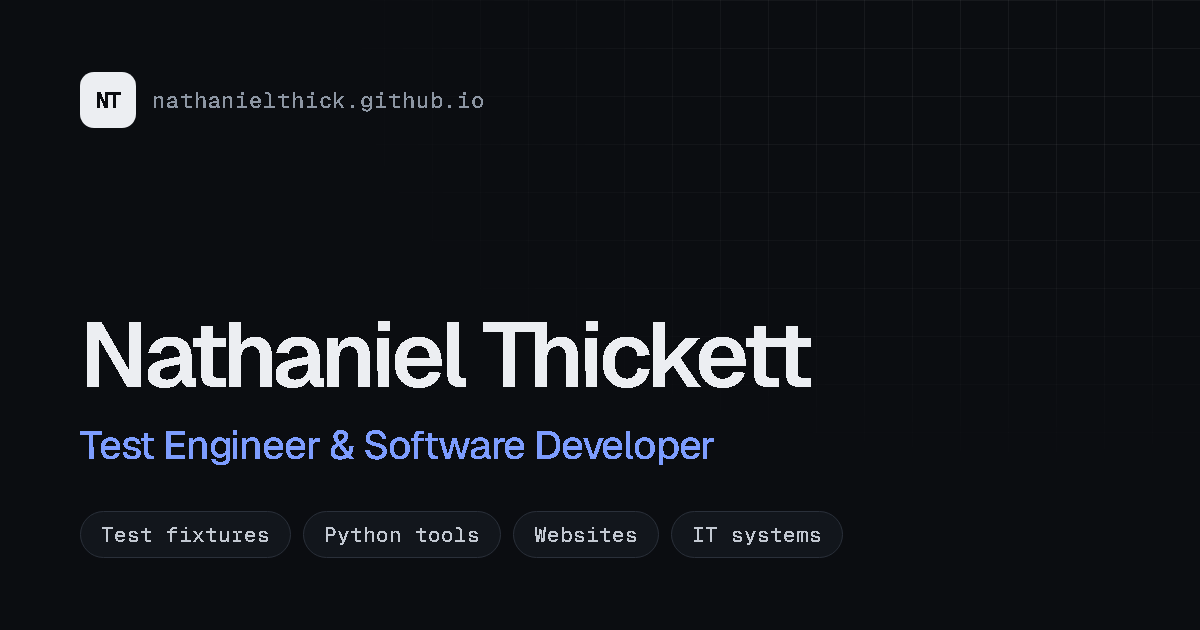
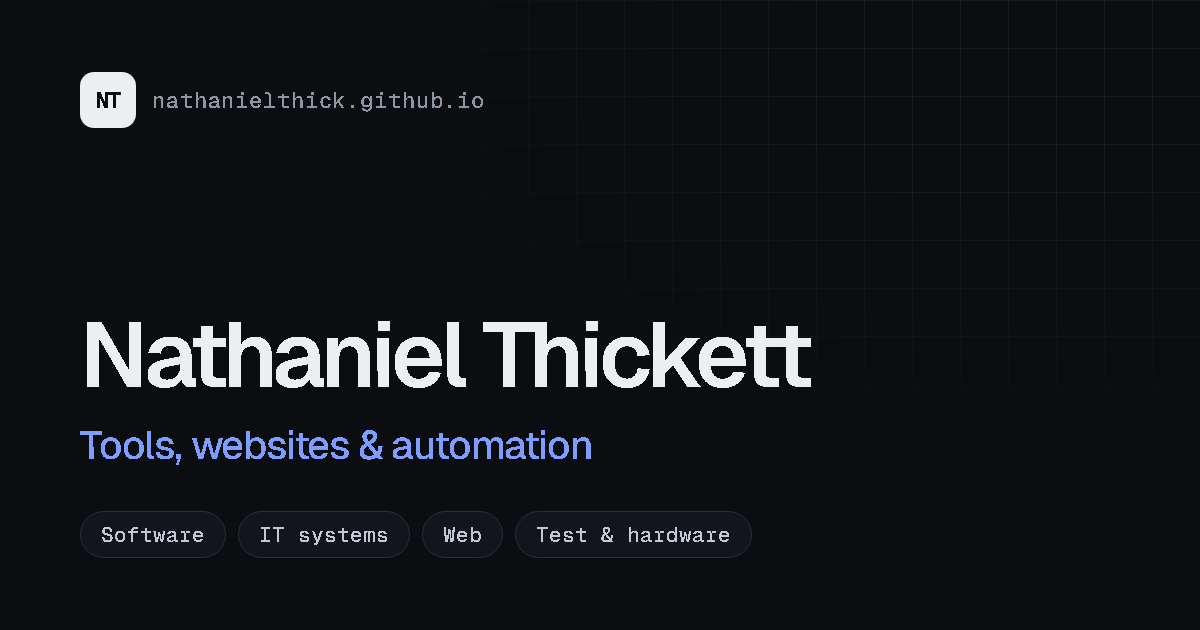
Make site role-agnostic and remove stats row
- Drop the headline stats row and its styles; tighten the gap between
  the hero and Selected work
- Remove the job title from the page title, meta and Open Graph tags,
  JSON-LD, hero intro, about.json card, About section and contact text
  so the site fits any role
- Regenerate the share card with neutral text
- Bump the CSS/JS version tag to 2026112402 and add a matching Version
  line to the top of site.css
- Document the version tag format in the README

Changed region(s): [[0.0925, 0.6635, 0.6167, 0.754], [0.0925, 0.8444, 0.4008, 0.8746], [0.4317, 0.8444, 0.6783, 0.8746]]

diff --git a/index.html b/index.html
@@ -3,8 +3,8 @@
 <head>
   <meta charset="utf-8">
   <meta name="viewport" content="width=device-width, initial-scale=1">
-  <title>Nathaniel Thickett | Test Engineer &amp; Software Developer</title>
-  <meta name="description" content="Nathaniel Thickett is a test engineer and software developer in Southern Oregon. He designs test fixtures and adapter PCBs for IPC Class 3 electronics and builds Python tools, websites and automation, with a background in IT and e-commerce.">
+  <title>Nathaniel Thickett | Portfolio</title>
+  <meta name="description" content="Portfolio of Nathaniel Thickett, a Computer Science graduate in Southern Oregon who builds desktop tools, websites and automation, with experience across software, IT, e-commerce and test engineering.">
   <meta name="author" content="Nathaniel Thickett">
   <link rel="canonical" href="https://nathanielthick.github.io/">
 
@@ -13,13 +13,13 @@
 
   <meta property="og:type" content="website">
   <meta property="og:site_name" content="Nathaniel Thickett">
-  <meta property="og:title" content="Nathaniel Thickett | Test Engineer &amp; Software Developer">
-  <meta property="og:description" content="Test fixtures, Python tools, websites and automation that replace slow, error-prone manual work.">
+  <meta property="og:title" content="Nathaniel Thickett | Portfolio">
+  <meta property="og:description" content="Desktop tools, websites and automation that replace slow, error-prone manual work.">
   <meta property="og:url" content="https://nathanielthick.github.io/">
   <meta property="og:image" content="https://nathanielthick.github.io/images/og-card.png">
   <meta property="og:image:width" content="1200">
   <meta property="og:image:height" content="630">
-  <meta property="og:image:alt" content="Nathaniel Thickett, Test Engineer and Software Developer">
+  <meta property="og:image:alt" content="Nathaniel Thickett: tools, websites and automation">
   <meta name="twitter:card" content="summary_large_image">
 
   <link rel="icon" href="favicon.svg" type="image/svg+xml">
@@ -28,7 +28,7 @@
   <link rel="preconnect" href="https://fonts.googleapis.com">
   <link rel="preconnect" href="https://fonts.gstatic.com" crossorigin>
   <link rel="stylesheet" href="https://fonts.googleapis.com/css2?family=Geist:wght@400;500;600;700;800&family=Geist+Mono:wght@400;500&display=swap">
-  <link rel="stylesheet" href="assets/css/site.css?v=20261124">
+  <link rel="stylesheet" href="assets/css/site.css?v=2026112402">
 
   <script>
     (function () {
@@ -47,7 +47,6 @@
     "@type": "Person",
     "name": "Nathaniel Thickett",
     "url": "https://nathanielthick.github.io/",
-    "jobTitle": "Test Engineer",
     "worksFor": { "@type": "Organization", "name": "Impact Electronic Solutions" },
     "email": "mailto:natethickett@gmail.com",
     "address": { "@type": "PostalAddress", "addressLocality": "Medford", "addressRegion": "OR", "addressCountry": "US" },
@@ -131,9 +130,9 @@
           <p class="eyebrow"><span class="status-dot" aria-hidden="true"></span>Open to new roles · Southern Oregon</p>
           <h1 id="hero-title">I build the tools that keep <span class="soft">operations running.</span></h1>
           <p class="hero-lede">
-            I'm <strong>Nathaniel Thickett</strong>, a test engineer and software developer with a Computer Science degree from Oregon State.
-            I design test fixtures and adapter boards for IPC Class 3 electronics, and I build the desktop tools, websites and automation
-            that replace slow, error-prone manual work. Before that, I ran IT and e-commerce for a growing business.
+            I'm <strong>Nathaniel Thickett</strong>, a Computer Science graduate from Oregon State. I build desktop tools, websites and
+            automation that replace slow, error-prone manual work, and I've done it across software, IT administration, e-commerce and
+            test engineering. Wherever technology meets day-to-day operations, I'm comfortable there.
           </p>
           <div class="hero-cta">
             <a class="btn btn-primary" href="#work">See my work <svg class="ico" aria-hidden="true"><use href="#i-arrow-r"/></svg></a>
@@ -152,12 +151,12 @@
           <div class="code-card-bar"><span class="dots"><i></i><i></i><i></i></span>about.json</div>
 <pre>{
   <span class="c-key">"name"</span>: <span class="c-str">"Nathaniel Thickett"</span>,
-  <span class="c-key">"role"</span>: <span class="c-str">"Test Engineer"</span>,
-  <span class="c-key">"at"</span>: <span class="c-str">"Impact Electronic Solutions"</span>,
+  <span class="c-key">"based_in"</span>: <span class="c-str">"Southern Oregon"</span>,
   <span class="c-key">"degree"</span>: <span class="c-str">"B.S. CS, Oregon State"</span>,
-  <span class="c-key">"cert"</span>: <span class="c-str">"IPC/WHMA-A-620 CIS"</span>,
-  <span class="c-key">"builds"</span>: [<span class="c-str">"test fixtures"</span>, <span class="c-str">"tools"</span>,
-             <span class="c-str">"websites"</span>],
+  <span class="c-key">"builds"</span>: [<span class="c-str">"tools"</span>, <span class="c-str">"websites"</span>,
+             <span class="c-str">"automation"</span>],
+  <span class="c-key">"worked_in"</span>: [<span class="c-str">"software"</span>, <span class="c-str">"IT"</span>,
+                <span class="c-str">"e-commerce"</span>, <span class="c-str">"testing"</span>],
   <span class="c-key">"stack"</span>: [<span class="c-str">"Python"</span>, <span class="c-str">"TypeScript"</span>,
             <span class="c-str">"SQL"</span>, <span class="c-str">"KiCad"</span>],
   <span class="c-key">"open_to_work"</span>: <span class="c-num">true</span>
@@ -166,28 +165,6 @@
       </div>
     </div>
   </section>
-
-  <!-- ===================== Stats ===================== -->
-  <div class="container">
-    <div class="stats reveal">
-      <div class="stat">
-        <div class="stat-value">2,000+</div>
-        <p class="stat-label">Test adapters made searchable for Engineering and Cost Estimating</p>
-      </div>
-      <div class="stat">
-        <div class="stat-value"><small>up to</small>30%</div>
-        <p class="stat-label">Lift in weekly e-commerce revenue from campaigns I designed and ran</p>
-      </div>
-      <div class="stat">
-        <div class="stat-value">40+</div>
-        <p class="stat-label">Users supported as IT administrator for a growing company</p>
-      </div>
-      <div class="stat">
-        <div class="stat-value">6</div>
-        <p class="stat-label">Roles across test engineering, software, web, IT and e-commerce</p>
-      </div>
-    </div>
-  </div>
 
   <!-- ===================== Work ===================== -->
   <section class="section" id="work" aria-labelledby="work-title">
@@ -431,7 +408,7 @@ _J1-50,P9-4</pre>
           <p class="eyebrow"><span class="section-num">02</span> Experience</p>
           <h2 id="exp-title">Where I've worked</h2>
         </div>
-        <p>Test engineering, software, web, IT and e-commerce, from the test bench to the storefront.</p>
+        <p>Software, IT, e-commerce, web and test engineering roles, most recent first.</p>
       </div>
 
       <div class="timeline">
@@ -571,15 +548,15 @@ _J1-50,P9-4</pre>
       <div class="section-head reveal">
         <div>
           <p class="eyebrow"><span class="section-num">04</span> About</p>
-          <h2 id="about-title">Where hardware and software meet</h2>
+          <h2 id="about-title">A generalist who likes the unglamorous problems</h2>
         </div>
       </div>
 
       <div class="about-grid">
         <div class="reveal">
           <div class="prose">
-            <p>I'm a test engineer and software developer based in Southern Oregon. I studied Computer Science at Oregon State, and I like knowing how things work all the way down: from logic gates and assembly up through operating systems, databases and the web.</p>
-            <p>At <strong>Impact Electronic Solutions</strong> I develop test solutions for IPC Class 3 cable, harness and electronic assemblies, from fixtures and adapter PCBs to written procedures, and I build the Python and desktop tools that automate test programming and cut quoting costs. Before that I ran IT and e-commerce for a growing company, repaired systems on site, interned in software and manufacturing, and built websites on contract.</p>
+            <p>I'm based in Southern Oregon and studied Computer Science at Oregon State. I like knowing how things work all the way down: from logic gates and assembly up through operating systems, databases and the web.</p>
+            <p>My work has covered most sides of a business's technology: software and manufacturing internships, on-site hardware repair, running IT and e-commerce for a growing company, building websites on contract, and test engineering for electronics. The thread through all of it is the same. I find the slow, manual or error-prone part of a process and build something that fixes it.</p>
             <p>The problems I enjoy most sit between people and systems: the database only one person knows how to query, the spreadsheet nobody wants to touch, the storefront that needs to actually bring in sales.</p>
           </div>
 
@@ -617,7 +594,7 @@ _J1-50,P9-4</pre>
             <p class="eyebrow">Quick facts</p>
             <dl class="facts">
               <div><dt>Based in</dt><dd>Medford–Grants Pass, OR</dd></div>
-              <div><dt>Current role</dt><dd>Test Engineer</dd></div>
+              <div><dt>Focus</dt><dd>Tools, automation, web, IT</dd></div>
               <div><dt>Main stack</dt><dd>Python · TypeScript · SQL</dd></div>
               <div><dt>LinkedIn</dt><dd><a class="text-link" href="https://www.linkedin.com/in/nathanielthickett" target="_blank" rel="noopener">nathanielthickett</a></dd></div>
               <div><dt>GitHub</dt><dd><a class="text-link" href="https://github.com/nathanielthick" target="_blank" rel="noopener">@nathanielthick</a></dd></div>
@@ -634,7 +611,7 @@ _J1-50,P9-4</pre>
       <div class="contact-card reveal">
         <p class="eyebrow"><span class="section-num" style="color:inherit">05</span> Contact</p>
         <h2 id="contact-title">Have a role or a project in mind? Let's talk.</h2>
-        <p class="lede">I'm open to roles in software development, test and process engineering, IT systems and web development, and to freelance website projects. Email or LinkedIn is the fastest way to reach me.</p>
+        <p class="lede">I'm open to new roles and to freelance website projects. If you have a problem that needs a practical fix, I'd like to hear about it. Email or LinkedIn is the fastest way to reach me.</p>
         <div class="contact-actions">
           <a class="btn btn-primary" href="mailto:natethickett@gmail.com?subject=Hello%20Nathaniel"><svg class="ico" aria-hidden="true"><use href="#i-mail"/></svg>Email me</a>
           <a class="btn btn-secondary" href="https://www.linkedin.com/in/nathanielthickett" target="_blank" rel="noopener"><svg class="ico" aria-hidden="true"><use href="#i-linkedin"/></svg>LinkedIn</a>
@@ -665,6 +642,6 @@ _J1-50,P9-4</pre>
   </div>
 </footer>
 
-<script src="assets/js/site.js?v=20261124" defer></script>
+<script src="assets/js/site.js?v=2026112402" defer></script>
 </body>
 </html>

diff --git a/assets/css/site.css b/assets/css/site.css
@@ -1,5 +1,6 @@
 /* ==========================================================================
    Nathaniel Thickett — portfolio
+   Version 2026112402 (keep in sync with the ?v= tag in index.html and 404.html)
    Plain CSS, no build step. Colors are tokens; dark mode redefines them.
    ========================================================================== */
 
@@ -494,46 +495,11 @@ code, kbd, pre { font-family: var(--font-mono); }
 }
 @keyframes blink { 50% { opacity: 0; } }
 
-/* ---------- Stats strip ---------- */
-
-.stats {
-  display: grid;
-  grid-template-columns: repeat(4, minmax(0, 1fr));
-  border: 1px solid var(--line);
-  border-radius: var(--radius-lg);
-  background: var(--surface);
-  box-shadow: var(--shadow-sm);
-  overflow: hidden;
-}
-.stat {
-  padding: 26px 26px 24px;
-  border-left: 1px solid var(--line);
-}
-.stat:first-child { border-left: 0; }
-.stat-value {
-  font-size: 34px;
-  font-weight: 600;
-  letter-spacing: -0.04em;
-  line-height: 1;
-}
-.stat-value small {
-  font-size: 15px;
-  font-weight: 500;
-  color: var(--muted);
-  letter-spacing: -0.01em;
-  margin-right: 4px;
-}
-.stat-label {
-  margin-top: 10px;
-  font-size: 14px;
-  line-height: 1.45;
-  color: var(--muted);
-}
-
 /* ---------- Sections ---------- */
 
 .section { padding: 112px 0 0; }
 .section:last-of-type { padding-bottom: 112px; }
+.hero + .section { padding-top: 24px; }
 
 .section-head {
   display: flex;
@@ -1285,9 +1251,6 @@ code, kbd, pre { font-family: var(--font-mono); }
   }
   .cards, .skills { grid-template-columns: repeat(2, minmax(0, 1fr)); }
   .about-grid { grid-template-columns: 1fr; }
-  .stats { grid-template-columns: repeat(2, minmax(0, 1fr)); }
-  .stat:nth-child(3) { border-left: 0; }
-  .stat:nth-child(n + 3) { border-top: 1px solid var(--line); }
 }
 
 @media (max-width: 860px) {
@@ -1326,10 +1289,6 @@ code, kbd, pre { font-family: var(--font-mono); }
   .code-card pre { font-size: 12px; padding: 16px; }
   .section { padding-top: 84px; }
   .section:last-of-type { padding-bottom: 84px; }
-  .stats { grid-template-columns: 1fr 1fr; }
-  .stat { padding: 20px 18px; }
-  .stat-value { font-size: 28px; }
-  .stat-label { font-size: 13px; }
   .project-body { padding: 28px 22px 26px; }
   .project h3 { font-size: 24px; }
   .project-visual, .project.is-flipped .project-visual { padding: 28px 16px; }
@@ -1345,12 +1304,6 @@ code, kbd, pre { font-family: var(--font-mono); }
   .prose p { font-size: 16.5px; }
   .facts div { font-size: 14px; }
   .brand-name { display: none; }
-}
-
-@media (max-width: 380px) {
-  .stats { grid-template-columns: 1fr; }
-  .stat { border-left: 0 !important; }
-  .stat + .stat { border-top: 1px solid var(--line); }
 }
 
 @media print {

diff --git a/404.html b/404.html
@@ -9,7 +9,7 @@
   <link rel="preconnect" href="https://fonts.googleapis.com">
   <link rel="preconnect" href="https://fonts.gstatic.com" crossorigin>
   <link rel="stylesheet" href="https://fonts.googleapis.com/css2?family=Geist:wght@400;500;600&family=Geist+Mono:wght@500&display=swap">
-  <link rel="stylesheet" href="/assets/css/site.css?v=20261124">
+  <link rel="stylesheet" href="/assets/css/site.css?v=2026112402">
   <script>
     try { var t = localStorage.getItem("theme"); if (t === "light" || t === "dark") document.documentElement.setAttribute("data-theme", t); } catch (e) {}
   </script>

diff --git a/README.md b/README.md
@@ -1,6 +1,6 @@
 # nathanielthick.github.io
 
-Personal portfolio for **Nathaniel Thickett**, Test Engineer & Software Developer.
+Personal portfolio for **Nathaniel Thickett**: desktop tools, websites and automation, with experience across software, IT, e-commerce and test engineering.
 
 **Live site:** https://nathanielthick.github.io/
 
@@ -39,8 +39,8 @@ GitHub Pages serves the `main` branch. Push to `main` and the site updates withi
 
 - **Projects, jobs and skills** are plain HTML in `index.html`, one block per item. Copy a block that's already there to add a new one.
 - **Résumé:** replace `assets/Nathaniel-Thickett-Resume.pdf` and keep the same file name, so every link keeps working.
-- **After changing `site.css` or `site.js`:** bump the `?v=` date in `index.html` and `404.html` so browsers fetch the new file instead of a cached copy.
-- **Job title or headline:** also update the `<title>`, the meta description, the Open Graph tags and the JSON-LD block at the top of `index.html`, then regenerate `images/og-card.png`.
+- **After changing `site.css` or `site.js`:** bump the version tag so browsers fetch the new file instead of a cached copy. The version is the date plus a two-digit counter (for example `2026112402`). Change it in three places: the `?v=` on the CSS and JS links in `index.html`, the `?v=` on the CSS link in `404.html`, and the `Version` line at the top of `site.css`.
+- **Headline or positioning:** the site is written to fit any role you apply for, so it has no job title in the header or metadata. If you change the headline, also update the `<title>`, the meta description, the Open Graph tags and the JSON-LD block at the top of `index.html`, then regenerate `images/og-card.png`.
 - **`sitemap.xml`:** update `<lastmod>` after major content changes.
 
 ## Credits
